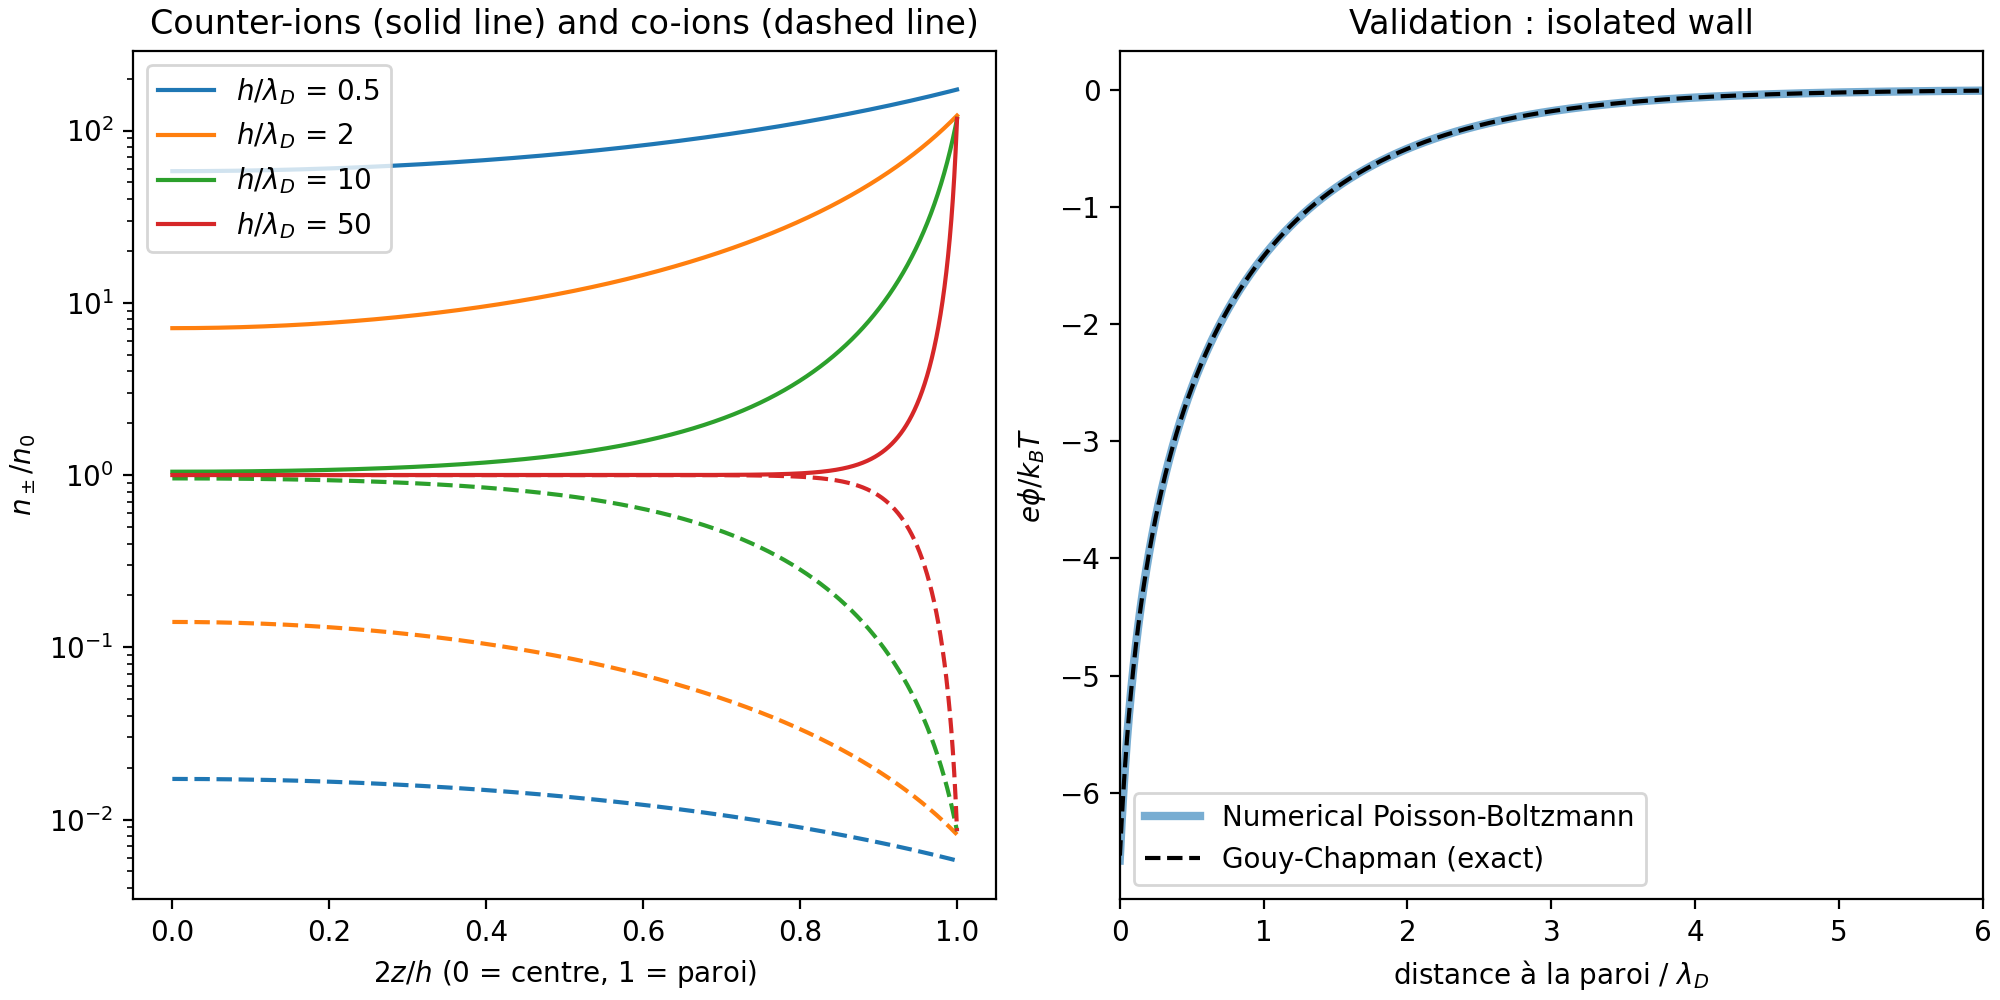
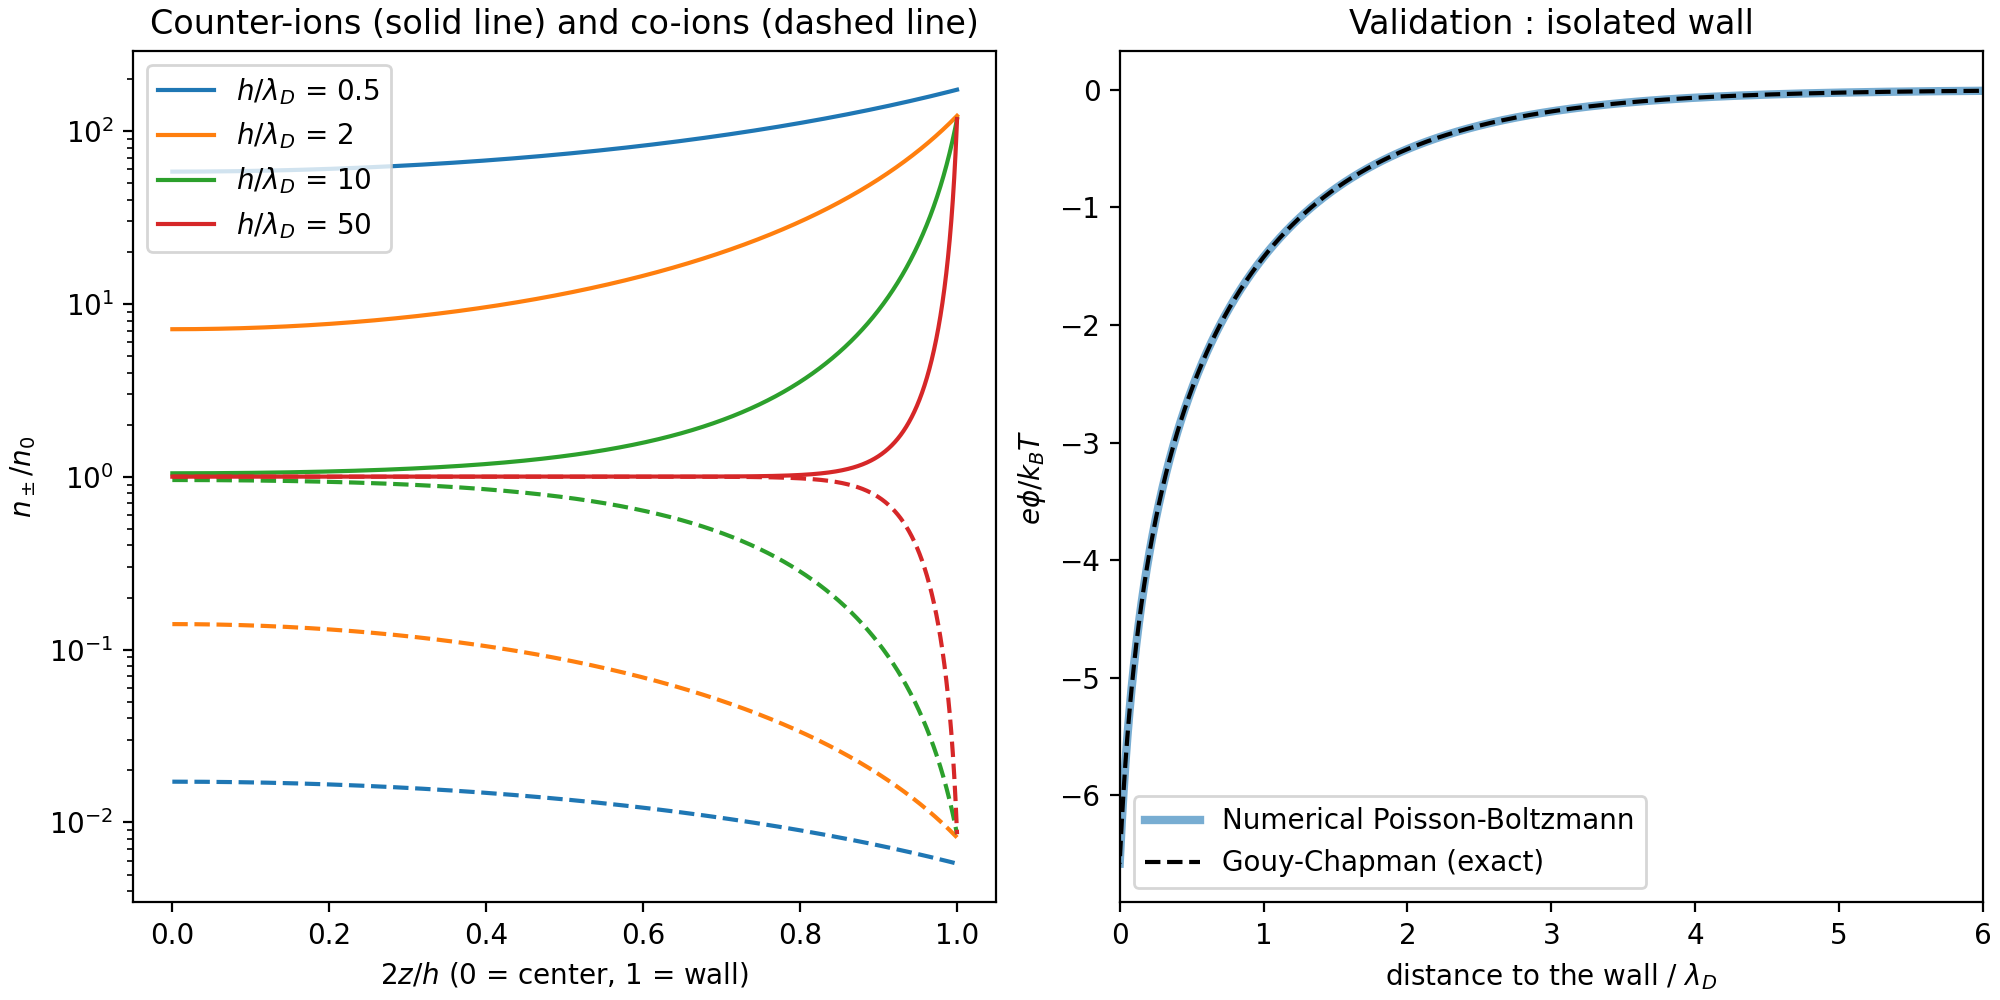
Fixed axis labels in figure 1

diff --git a/figures.py b/figures.py
@@ -20,7 +20,7 @@ def fig_double_layer():
         x = pb.z / (pb.h / 2)
         line, = ax1.semilogy(x, pb.n_plus / electrolyte.n_0, label=f"$h/\\lambda_D$ = {H}")
         ax1.semilogy(x, pb.n_minus / electrolyte.n_0, "--", color=line.get_color())
-    ax1.set(xlabel="$2z/h$ (0 = centre, 1 = paroi)", ylabel=r"$n_\pm/n_0$", title = "Counter-ions (solid line) and co-ions (dashed line)")
+    ax1.set(xlabel="$2z/h$ (0 = center, 1 = wall)", ylabel=r"$n_\pm/n_0$", title = "Counter-ions (solid line) and co-ions (dashed line)")
     ax1.legend()
 
     h = 60 * lambda_D
@@ -29,7 +29,7 @@ def fig_double_layer():
     ax2.plot(x, pb.psi, lw=3, alpha=0.6, label="Numerical Poisson-Boltzmann")
     ax2.plot(x, gouy_chapman(x, wall_field(SIGMA, electrolyte)), "k--",
              label="Gouy-Chapman (exact)")
-    ax2.set(xlim=(0, 6), xlabel=r"distance à la paroi / $\lambda_D$",
+    ax2.set(xlim=(0, 6), xlabel=r"distance to the wall / $\lambda_D$",
             ylabel=r"$e\phi/k_BT$", title="Validation : isolated wall")
     ax2.legend()
     fig.savefig("figures/fig1_double_layer.png", dpi=200)
